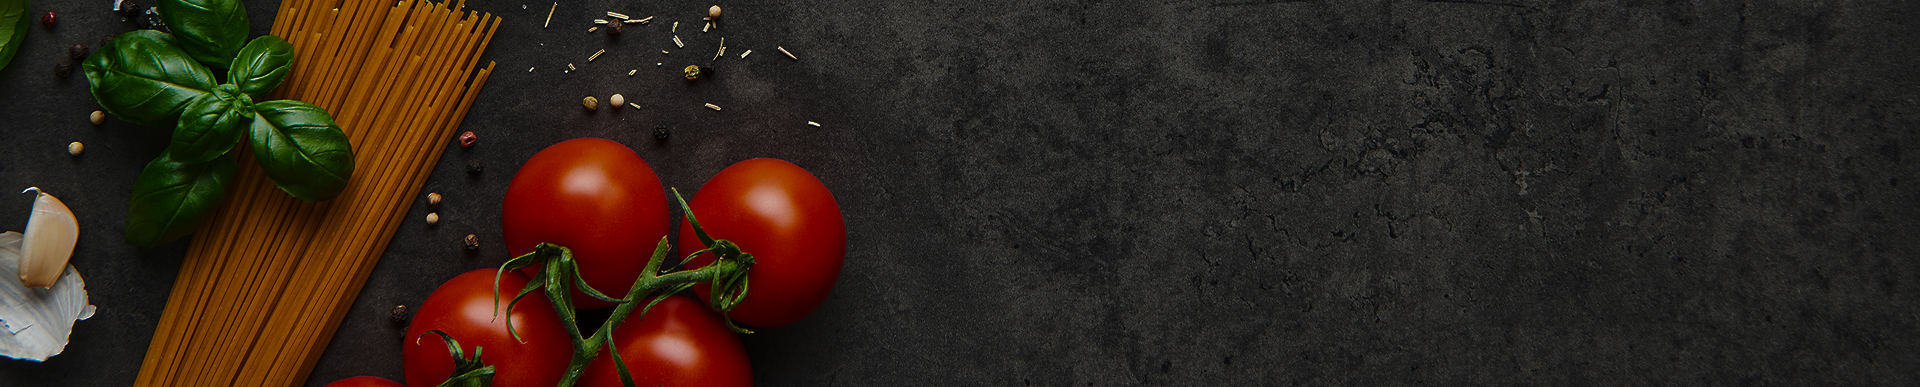
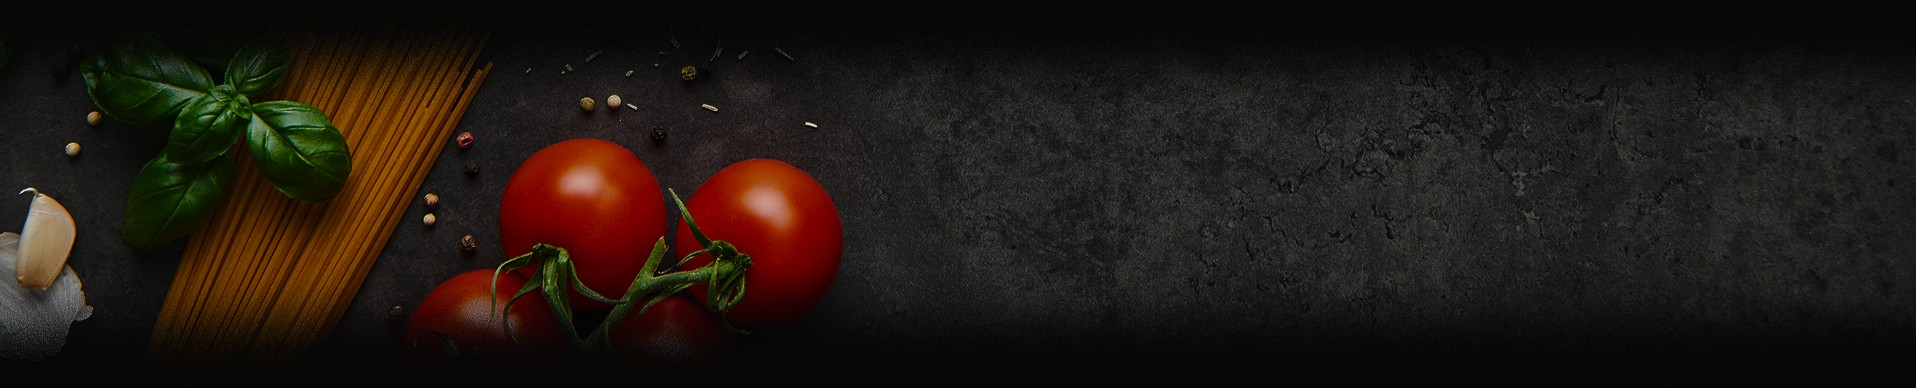
Add CustomMacroBar and integrate into PieChart
Introduce a new CustomMacroBar component (src/components/CustomMacroBar.js) that renders a compact macro density bar with percentages, legend, colors and zero-data handling. Integrate the component into the FoodAnalysisFrame in src/components/PieChart.js (import + JSX) to show protein/carbs/fat breakdown alongside the existing doughnut chart. Also update two hero image assets (src/assets/hero-bg2.jpg, src/assets/hero-header-compare.jpg).

diff --git a/src/components/CustomMacroBar.js b/src/components/CustomMacroBar.js
@@ -1,0 +1,73 @@
+import React from 'react';
+
+const CustomMacroBar = ({ protein, carbs, fat }) => {
+    // Math: Calculate total weight to find percentages
+    const totalMacros = Number(protein) + Number(carbs) + Number(fat);
+    
+    // Avoid dividing by zero or a black hole will open and consume the universe
+    if (totalMacros === 0) {
+        return <div style={{ color: '#666', fontFamily: '"Courier New", monospace' }}>No macro data, awaiting input...</div>;
+    }
+
+    // Calculate exact percentages
+    const proteinPct = ((protein / totalMacros) * 100).toFixed(1);
+    const carbsPct = ((carbs / totalMacros) * 100).toFixed(1);
+    const fatPct = ((fat / totalMacros) * 100).toFixed(1);
+
+    // Color Palette
+    const colors = {
+        protein: 'rgba(185, 50, 52, 1)',   // Red
+        carbs: 'rgba(16, 108, 147, 1)',    // Blue
+        fat: 'rgba(202, 126, 20, 1)'       // Yellow
+    };
+
+    return (
+        <div style={{ margin: '20px 0', fontFamily: '"Courier New", monospace' }}>
+            <div style={{ display: 'flex', justifyContent: 'space-between', fontSize: '0.8rem', color: '#888', marginBottom: '8px' }}>
+                <span>MACRO DENSITY MAP</span>
+                <span>100% MASS</span>
+            </div>
+
+            {/* --- THE CUSTOM VISUALIZATION (HTML/CSS) --- */}
+            <div style={{ 
+                display: 'flex', 
+                width: '100%', 
+                height: '24px', 
+                backgroundColor: '#1a1a1a', 
+                borderRadius: '12px',
+                overflow: 'hidden', // Keeps the inner bars clamped to the rounded corners
+                border: '1px solid #333'
+            }}>
+                {/* Protein Bar (Not the food, the segment)*/}
+                <div style={{ 
+                    width: `${proteinPct}%`, 
+                    backgroundColor: colors.protein, 
+                    transition: 'width 0.5s ease-in-out' 
+                }} title={`Protein: ${proteinPct}%`} />
+                
+                {/* Carbs Bar */}
+                <div style={{ 
+                    width: `${carbsPct}%`, 
+                    backgroundColor: colors.carbs, 
+                    transition: 'width 0.5s ease-in-out' 
+                }} title={`Carbs: ${carbsPct}%`} />
+                
+                {/* Fat Bar */}
+                <div style={{ 
+                    width: `${fatPct}%`, 
+                    backgroundColor: colors.fat, 
+                    transition: 'width 0.5s ease-in-out' 
+                }} title={`Fat: ${fatPct}%`} />
+            </div>
+
+            {/* The Custom Legend */}
+            <div style={{ display: 'flex', gap: '15px', marginTop: '12px', fontSize: '0.75rem', fontWeight: 'bold' }}>
+                <span style={{ color: colors.protein }}>PROTEIN {proteinPct}%</span>
+                <span style={{ color: colors.carbs }}>CARBS {carbsPct}%</span>
+                <span style={{ color: colors.fat }}>FAT {fatPct}%</span>
+            </div>
+        </div>
+    );
+};
+
+export default CustomMacroBar;

diff --git a/src/components/PieChart.js b/src/components/PieChart.js
@@ -7,6 +7,9 @@
 import { Chart as ChartJS, ArcElement, Tooltip } from 'chart.js';
 import { Doughnut } from 'react-chartjs-2';
 
+//
+import CustomMacroBar from './CustomMacroBar';
+
 ChartJS.register(ArcElement, Tooltip);
 
 // The FoodAnalysisFrame component is responsible for displaying a detailed analysis of a selected food item. It takes the food data as a prop, extracts the relevant nutritional information, and presents it in both a visual format (using a doughnut chart to show the macronutrient breakdown) and a textual format (providing specific values for calories, protein, fat, carbohydrates, and other nutrients). The component also normalizes the nutrient values to a standard 100g serving size to allow for easy comparison between different foods. If no data is available, it displays a message indicating so.
@@ -72,6 +75,13 @@ const FoodAnalysisFrame = ({ foodData }) => {
                 <span style={{ color: 'rgba(16, 108, 147, 1)', fontWeight: 'bold' }}> {scaledCarbs}g carbs</span>,
                 <span style={{ color: 'rgba(185, 50, 52, 1)', fontWeight: 'bold' }}> {scaledProtein}g protein</span>.
             </p>
+
+            {/* --- THE NEW CUSTOM REQUIREMENT WIDGET --- */}
+            <CustomMacroBar 
+                protein={scaledProtein} 
+                carbs={scaledCarbs} 
+                fat={scaledFat} 
+            />
 
             {/* The nutrient grid is a structured layout that lists specific nutrient values. Each row displays the name of the nutrient and its corresponding value per 100g. The grid includes key nutrients such as calories, protein, fat (with subcategories), carbohydrates (with subcategories), cholesterol, sodium, and potassium. */}
             <div className="nutrient-grid-container">
